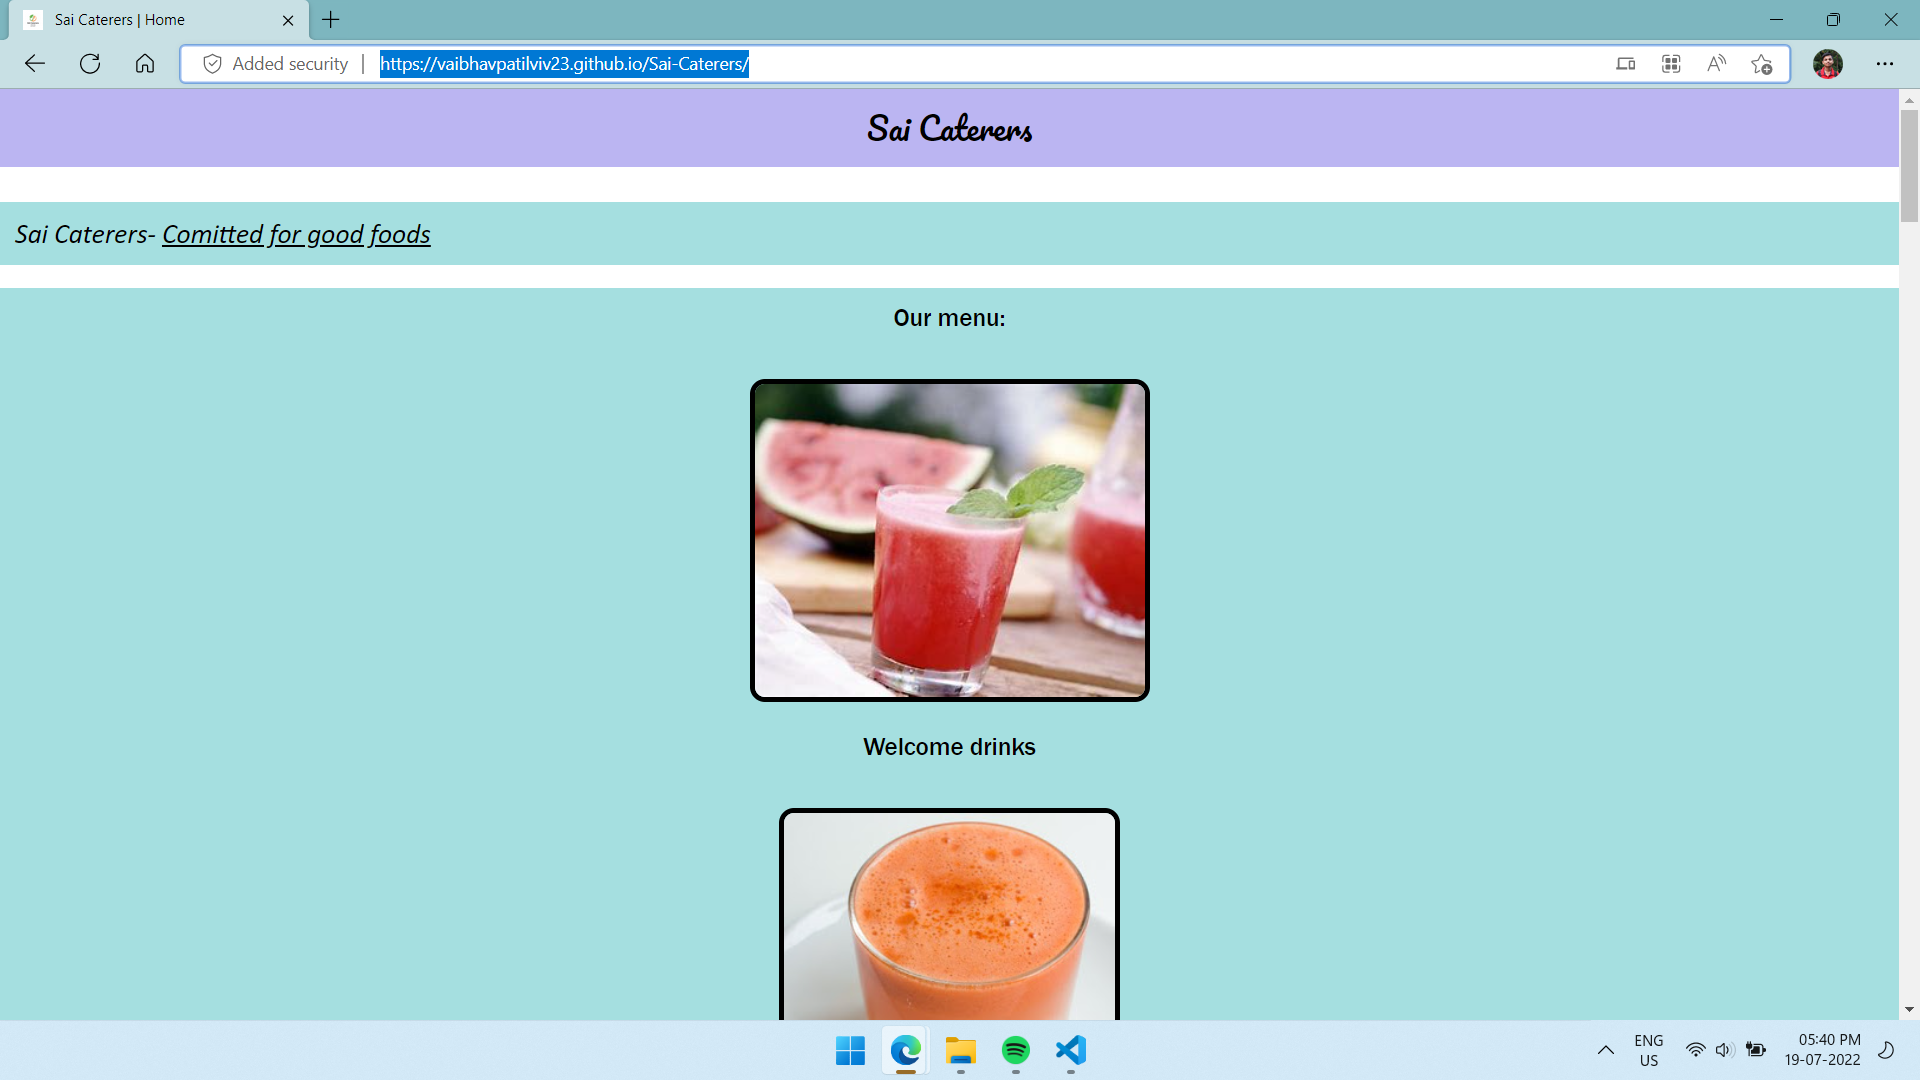
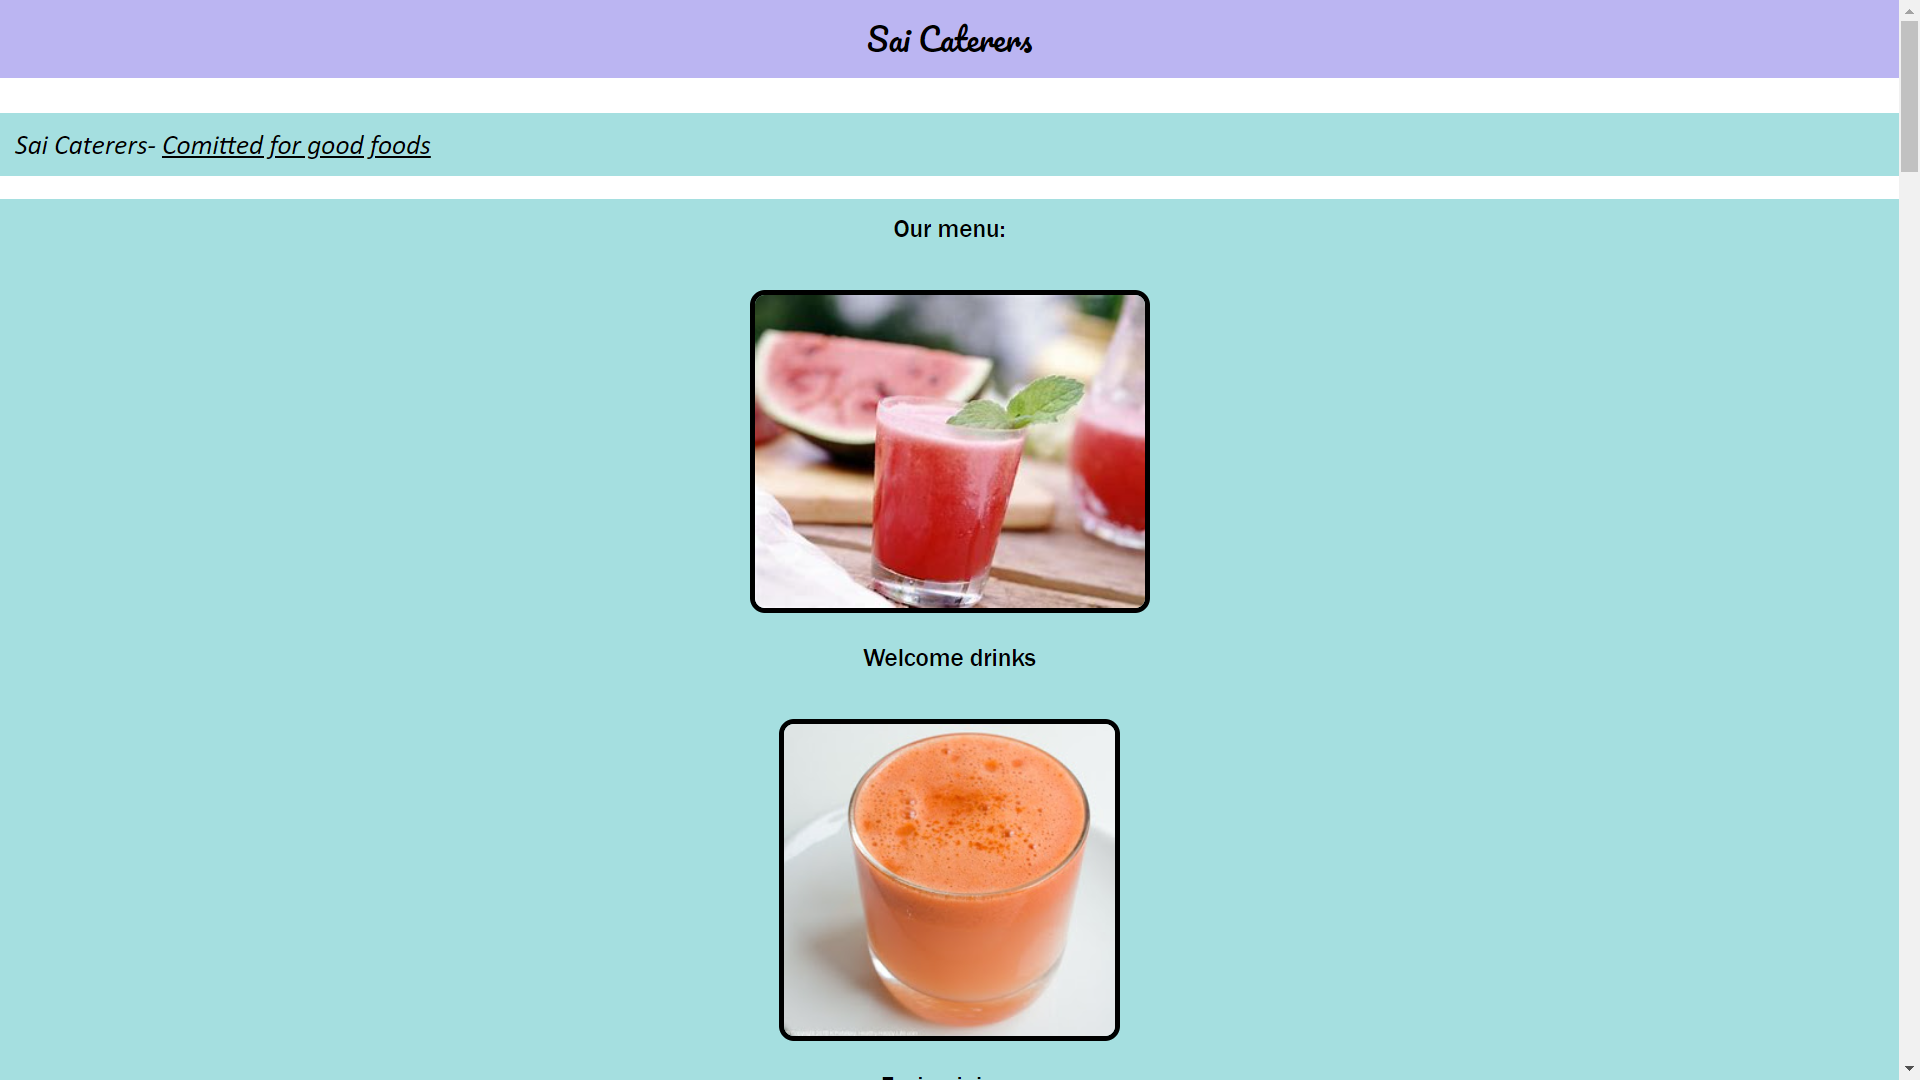
Add files via upload

diff --git a/style.css b/style.css
@@ -24,9 +24,9 @@ body {
 }
 
 /*only for smartphones in portrait mode */
-@media (min-width: 600px) and (max-width: 1180px) {
+@media (min-width: 300px) {
     header {
-        position:relative;
+        position: relative;
         background-color: rgb(67, 75, 70);
         width: auto;
         font-size: 40px;
@@ -51,7 +51,7 @@ body {
         width: auto;
         border: 8px black solid;
         border-radius: 7%;
-        
+
     }
 
     section {
@@ -116,18 +116,18 @@ body {
         font-size: 30px;
     }
 
-    
+
     footer {
         margin-top: 20px;
         background-color: rgb(67, 75, 70);
         width: auto;
-        font-size:23px;
+        font-size: 23px;
         padding: 25px;
         line-height: 80px;
         font-family: 'Gill Sans', 'Gill Sans MT', Calibri, 'Trebuchet MS', sans-serif;
         color: white;
     }
-    
+
 }
 
 /* only for smartphones in landscape mode*/
@@ -156,7 +156,7 @@ body {
         width: auto;
         border: 8px black solid;
         border-radius: 7%;
-        
+
     }
 
     section {
@@ -173,9 +173,10 @@ body {
     }
 
     .projectss {
-        
+        border-radius: 12px;
         height: auto;
-        width: 300px;
+        width: 400px;
+        border: 5px solid black;
     }
 
     h2 {
@@ -213,18 +214,18 @@ body {
         font-size: 24px;
     }
 
-    
+
     footer {
         margin-top: 50px;
         background-color: rgb(67, 75, 70);
         width: auto;
-        font-size:23px;
-        padding: 25px;
-        line-height: 80px;
+        font-size: 23px;
+        padding: 18px;
+        line-height: 50px;
         font-family: 'Gill Sans', 'Gill Sans MT', Calibri, 'Trebuchet MS', sans-serif;
         color: white;
     }
-    
+
 }
 
 /* iPad in portrait and landscape mode */
@@ -239,6 +240,11 @@ body {
         text-align: left;
     }
 
+    #textinheader {
+        font-size: 30px;
+    }
+
+
     h1 {
         color: white;
         font-weight: lighter;
@@ -247,7 +253,7 @@ body {
 
     #profileimg {
         height: 200px;
-        width:auto;
+        width: auto;
         border: 4px black solid;
         border-radius: 7%;
     }
@@ -264,9 +270,9 @@ body {
     }
 
     .projectss {
-        height: 200px;
-        width: 200px;
-        border: 8px solid black;
+        height: auto;
+        width: 300px;
+        border: 4px solid black;
         border-radius: 12px;
     }
 
@@ -274,7 +280,7 @@ body {
         color: white;
     }
 
-   img {
+    img {
         height: 100px;
         margin: 5px 0px 5px 0px;
         width: 100px;
@@ -323,7 +329,7 @@ body {
         margin-top: 10px;
         background-color: rgb(67, 75, 70);
         width: auto;
-        font-size:18px;
+        font-size: 18px;
         padding: 8px;
         line-height: 37.5px;
         font-family: 'Gill Sans', 'Gill Sans MT', Calibri, 'Trebuchet MS', sans-serif;
@@ -336,23 +342,26 @@ body {
     header {
         color: red;
         background-color: rgb(67, 75, 70);
-        height: auto;
+        height: 40px;
         width: auto;
-        font-size: 18px;
         padding: 20px;
         text-align: left;
     }
 
+    #textinheader {
+        font-size: 30px;
+    }
+
     h1 {
         color: white;
-        
+        font-size: 20px;
         font-weight: lighter;
         font-family: sans-serif;
     }
 
     #profileimg {
         height: 200px;
-        width:auto;
+        width: auto;
         border: 4px black solid;
         border-radius: 7%;
     }
@@ -369,9 +378,9 @@ body {
     }
 
     .projectss {
-        height: 200px;
-        width: 200px;
-        border: 8px solid black;
+        height: auto;
+        width: 300px;
+        border: 4px solid black;
         border-radius: 12px;
     }
 
@@ -379,7 +388,7 @@ body {
         color: white;
     }
 
-   img {
+    img {
         height: 100px;
         margin: 5px 0px 5px 0px;
         width: 100px;
@@ -390,7 +399,7 @@ body {
 
 
     h2 {
-        font-size: 25px;
+        font-size: 20px;
         color: white;
         font-weight: lighter;
     }
@@ -428,7 +437,7 @@ body {
         margin-top: 10px;
         background-color: rgb(67, 75, 70);
         width: auto;
-        font-size:18px;
+        font-size: 18px;
         padding: 8px;
         line-height: 37.5px;
         font-family: 'Gill Sans', 'Gill Sans MT', Calibri, 'Trebuchet MS', sans-serif;

diff --git a/index.html b/index.html
@@ -10,7 +10,7 @@
 </head>
 
 <body>
-    <header>
+    <header id="header">
         <h1 style="font-family: 'Pacifico', cursive;" id="textinheader">Vaibhav</h1>
     </header>
 
@@ -29,7 +29,7 @@
 
             <br>
 
-            <p>Below you will find the projects that I have made and the info to contact me.</p>
+            <p id="aboutme">Below you will find the projects that I have made and the info to contact me.</p>
     </section>
 
     
@@ -139,7 +139,7 @@
     <footer>
         <h2>About me</h2>
         <h2>Contact info</h2>
-        <h3>Back to top</h3>
+        <a href="#header"><h2>Back to top</h2></a>
     </footer>
 
 
